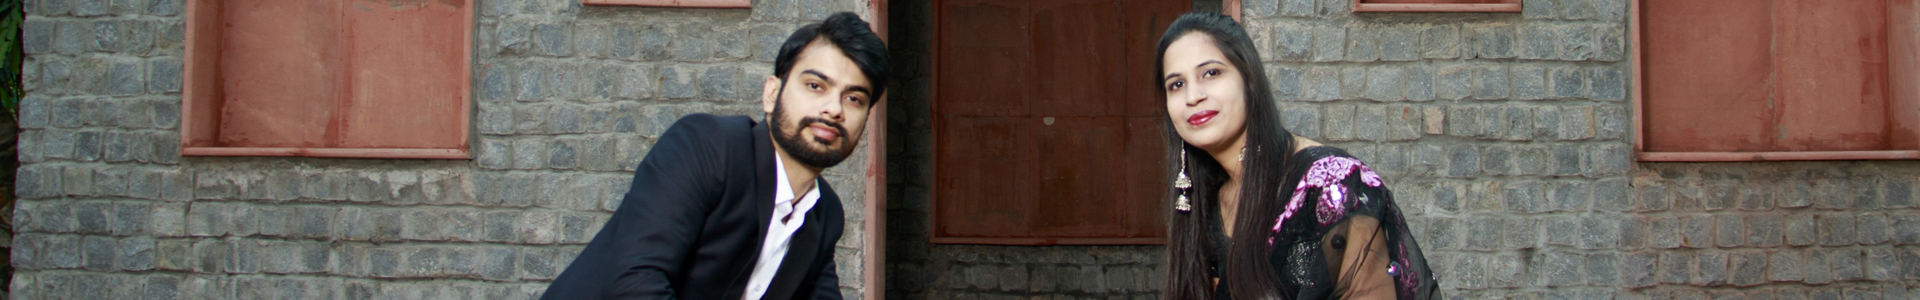
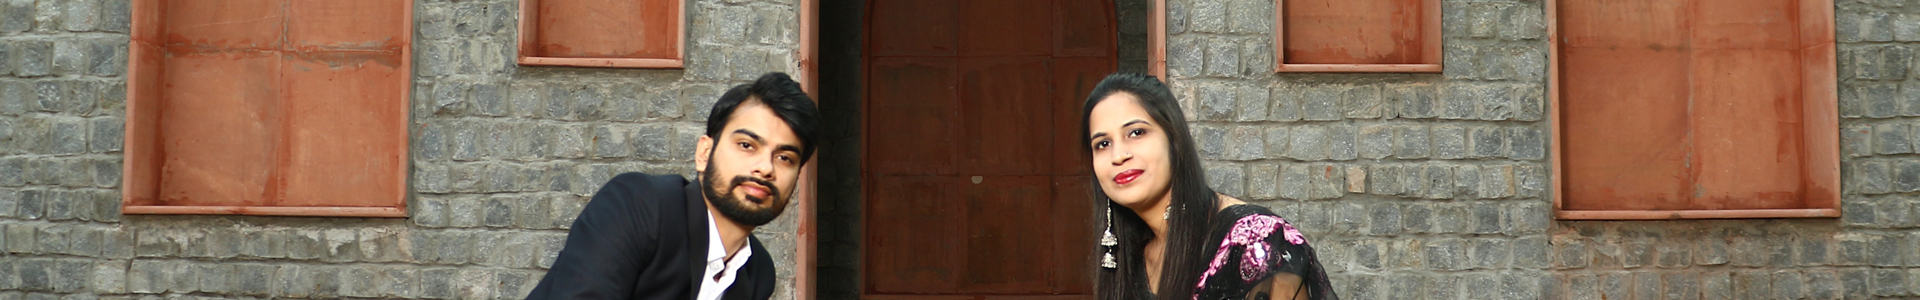
asdfs

diff --git a/index.html b/index.html
@@ -121,7 +121,7 @@
                 
                 <!-- Item -->
                 <div class="story_item">
-                    <div class="story_img parallax" data-image="http://placehold.it/640x400"><div class="story_img_plane"></div></div>
+                    <div class="story_img parallax" data-image="images/ap_tent.jpg"><div class="story_img_plane"></div></div>
                     <div class="story_plane">
                         <div class="story_back"></div>
                         <div class="story_txt">
@@ -138,92 +138,19 @@
 
                 <!-- Item -->
                 <div class="story_item">
-                    <div class="story_img parallax" data-image="http://placehold.it/640x400">
-                        <a class="youtube cboxElement" href="http://www.youtube.com/embed/hEowkXOP_Wg?rel=0">         
-                        <i class="flaticon-play102"></i></a>
+                    <div class="story_img parallax" data-image="images/ap-bar.jpg">
                     <div class="story_img_plane"></div></div>
                     <div class="story_plane">
                         <div class="story_back"></div>
                         <div class="story_txt">
                               <div class="story_title">
-                                Our first holiday
-                                <i>03.01.2014</i>
+                               About us
                             </div>
-                             Lorem ipsum dolor sit amet, consectetur adipisicing elit, sed do eiusmod
-                             tempor incididunt ut labore et dolore magna aliqua. Ut enim ad minim veniam,
-                             quis nostrud exercitation ullamco.
-                        </div> 
+                             If we had to tell you one thing about us... it would be that we're so thankful. Thankful that God brought us together.A love stands by each other’s side on good days and stands closer on bad days.                        </div> 
                     </div>
                 </div>
 
-                <!-- Item -->
-                <div class="story_item">
-                    <div class="story_img parallax" data-image="http://placehold.it/640x400"><div class="story_img_plane"></div></div>
-                    <div class="story_plane">
-                        <div class="story_back"></div>
-                        <div class="story_txt">
-                              <div class="story_title">
-                                First dinner together
-                                <i>12.05.2014</i>
-                            </div>
-                             Lorem ipsum dolor sit amet, consectetur adipisicing elit, sed do eiusmod
-                             tempor incididunt ut labore et dolore magna aliqua. Ut enim ad minim veniam,
-                             quis nostrud exercitation ullamco.
-                        </div> 
-                    </div>
-                </div>
-
-                <!-- Item -->
-                <div class="story_item">
-                    <div class="story_img parallax" data-image="http://placehold.it/640x400"><div class="story_img_plane"></div></div>
-                    <div class="story_plane">
-                        <div class="story_back"></div>
-                        <div class="story_txt">
-                              <div class="story_title">
-                                The Proposal
-                                <i>24.08.2014</i>
-                            </div>
-                             Lorem ipsum dolor sit amet, consectetur adipisicing elit, sed do eiusmod
-                             tempor incididunt ut labore et dolore magna aliqua. Ut enim ad minim veniam,
-                             quis nostrud exercitation ullamco.
-                        </div> 
-                    </div>
-                </div>
-
-                <!-- Item -->
-                <div class="story_item">
-                    <div class="story_img parallax" data-image="http://placehold.it/640x400"><div class="story_img_plane"></div></div>
-                    <div class="story_plane">
-                        <div class="story_back"></div>
-                        <div class="story_txt">
-                              <div class="story_title">
-                                Here comes the baby
-                                <i>10.01.2015</i>
-                            </div>
-                             Lorem ipsum dolor sit amet, consectetur adipisicing elit, sed do eiusmod
-                             tempor incididunt ut labore et dolore magna aliqua. Ut enim ad minim veniam,
-                             quis nostrud exercitation ullamco.
-                        </div> 
-                    </div>
-                </div>
-
-                <!-- Item -->
-                <div class="story_item">
-                    <div class="story_img parallax" data-image="http://placehold.it/640x400"><div class="story_img_plane"></div></div>
-                    <div class="story_plane">
-                        <div class="story_back"></div>
-                        <div class="story_txt">
-                              <div class="story_title">
-                                Bridesmaids
-                                <i>03.02.2015</i>
-                            </div>
-                             Lorem ipsum dolor sit amet, consectetur adipisicing elit, sed do eiusmod
-                             tempor incididunt ut labore et dolore magna aliqua. Ut enim ad minim veniam,
-                             quis nostrud exercitation ullamco.
-                        </div> 
-                    </div>
-                </div>
-                 
+                  
         </div>
     </section>
 
@@ -431,51 +358,27 @@
         <h2><span>Our</span> Gallery</h2>    
         <div class="gallery_wrapper">
             <div class="gallery_item">
-                <div class="gallery_txt">
-                   <a href="http://placehold.it/640x400" title="In late August, on a family vacation to Oahu"><b>Hawaii</b>
-                   In late August, on a family vacation to Oahu
-                   </a>
-                </div>
-                <img src="http://placehold.it/640x400" alt="Gallery 1">    
+                
+                <img src="images/ap-house.JPG" alt="Gallery 1">    
             </div>
             <div class="gallery_item">
-                <div class="gallery_txt">
-                    <a href="http://placehold.it/640x400" title="In Summer 2015"><b>New Zealand</b>
-                    In Summer 2015
-                    </a>
-                </div>
-                <img src="http://placehold.it/640x400" alt="Gallery 2">    
+               <img src="images/ap-car2.jpg" alt="Gallery 2">    
             </div>
             <div class="gallery_item">
-                <div class="gallery_txt">
-                    <a href="http://placehold.it/640x400" title="February 5, 2015 / New-York, USA"><b>Honeymoon</b>
-                    </a>
-                </div>
-                <img src="http://placehold.it/640x400" alt="Gallery 3">    
+               
+                <img src="images/ap-prop2.jpg" alt="Gallery 3">    
             </div>
             <div class="gallery_item">
-                <div class="gallery_txt">
-                    <a href="http://placehold.it/640x400" title="February 5, 2015 / New-York, USA"><b>Honeymoon</b>
-                    February 5, 2015 / New-York, USA
-                    </a>
-                </div>
-                <img src="http://placehold.it/640x400" alt="Gallery 4">    
+                
+                <img src="images/ap-kitchen.JPG" alt="Gallery 4">    
             </div>
             <div class="gallery_item">
-                <div class="gallery_txt">
-                   <a href="http://placehold.it/640x400" title="In late August, on a family vacation to Oahu"><b>Hawaii</b>
-                   In late August, on a family vacation to Oahu
-                   </a>
-                </div>
-                <img src="http://placehold.it/640x400" alt="Gallery 5">    
+                
+                <img src="images/ap_car.jpg" alt="Gallery 5">    
             </div>
             <div class="gallery_item">
-                <div class="gallery_txt">
-                    <a href="http://placehold.it/640x400" title="In Summer 2015"><b>New Zealand</b>
-                    In Summer 2015<br>
-                    </a>
-                </div>
-                <img src="http://placehold.it/640x400" alt="Gallery 6">    
+                
+                <img src="images/ap-rest.JPG" alt="Gallery 6">    
             </div>
         </div>
     </section>

diff --git a/css/style.css b/css/style.css
@@ -1545,7 +1545,7 @@ header {
 	}
 
 		.gallery_txt:before {
-			background:rgba(0,0,0,0.6);
+			background:rgba(0, 0, 0, 0.34);
 			display:block;
 			content:"";
 			position:absolute;
